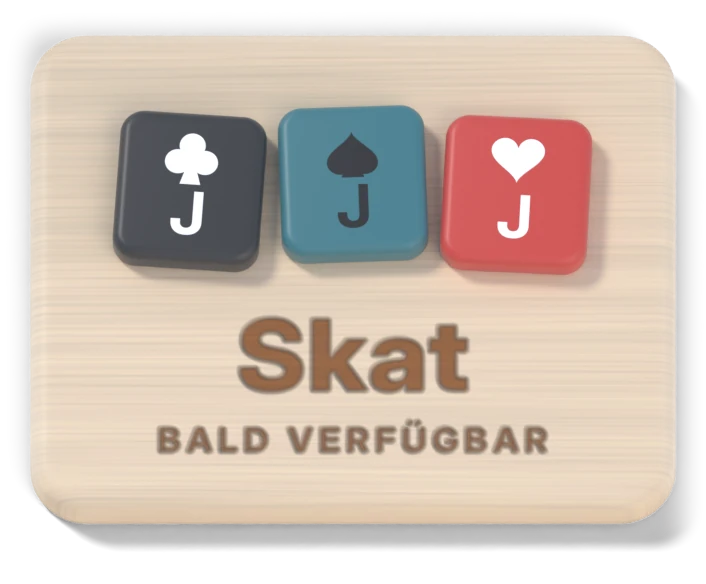
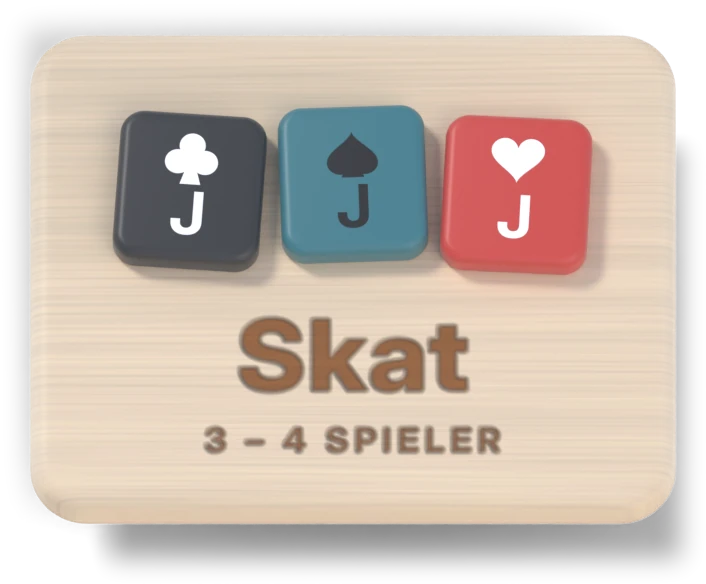
Skat spielbar: Tafel 3–4 Spieler, Rangliste/Profil mit Skat, Vorschau-Skripte, README

diff --git a/src/main.js b/src/main.js
@@ -453,7 +453,7 @@ async function openLeaderboard() {
   loadBoard();
   try {
     const { history } = await api.history();
-    $('hist-body').innerHTML = history.length ? `<table class="lb">${history.map((h) => `<tr><td>${new Date(h.created_at).toLocaleDateString('de-DE', { day: '2-digit', month: '2-digit' })}</td><td>${esc(GAME_INFO[h.game || '1001']?.name || h.game)}</td><td>${h.winner === 'human' ? 'Sieg' : 'Niederlage'}</td><td class="n">${h.human_total}:${h.computer_total}</td><td class="n">${h.deals} R.</td></tr>`).join('')}</table>` : '<p class="engr-s">Noch keine eigenen Partien.</p>';
+    $('hist-body').innerHTML = history.length ? `<table class="lb">${history.map((h) => `<tr><td>${new Date(h.created_at).toLocaleDateString('de-DE', { day: '2-digit', month: '2-digit' })}</td><td>${esc(GAME_INFO[h.game || '1001']?.name || h.game)}</td><td>${h.winner === 'human' ? 'Sieg' : 'Niederlage'}</td><td class="n">${h.human_total}:${h.computer_total}</td><td class="n">${h.deals} ${h.game === 'skat' ? 'Sp.' : 'R.'}</td></tr>`).join('')}</table>` : '<p class="engr-s">Noch keine eigenen Partien.</p>';
   } catch { $('hist-body').innerHTML = '<p class="engr-s">Noch keine eigenen Partien.</p>'; }
 }
 async function loadBoard() {

diff --git a/src/skat/game.js b/src/skat/game.js
@@ -173,7 +173,7 @@ export function createSkat(ctx) {
       const val = l ? (l.act === 'pass' ? 'weg' : l.act === 'yes' ? 'ja' : l.value) : '–';
       return `<div class="seat ${state} ${t && t.p === p ? 'turn' : ''}" data-p="${p}"><i class="peg p${p}"></i><span class="sn">${SHORT[nm(p)]}</span><em class="vh" title="${ROLE[r]}">${ROLE_S[r]}</em><span class="sv">${val}</span></div>`;
     }).join('');
-    const sayer = a.stage < 3 ? `${SHORT[nm(a.sayer)]} sagt` : '';
+    const sayer = a.stage < 3 ? (a.sayer === 0 ? 'Du sagst' : `${SHORT[nm(a.sayer)]} sagt`) : '';
     $('skb-high').innerHTML = a.bid ? `<span class="k">Gereizt</span><b>${a.bid}</b><span class="who">${a.stage === 1 ? `${SHORT[nm(a.sayer)]} → ${SHORT[nm(a.listener)]}` : a.stage === 2 ? `${SHORT[nm(a.sayer)]} → ${SHORT[nm(a.listener)]}` : ''}</span>`
       : `<span class="k">Noch nichts gereizt</span><b>18</b><span class="who">${sayer || 'Vorhand'} zuerst</span>`;
     $('skb-log').innerHTML = a.log.map((e) => `<span class="chip-tile p${e.p} ${e.act === 'pass' ? 'pass' : ''}" title="${nm(e.p)}">${e.act === 'pass' ? 'W' : e.act === 'yes' ? 'Ja' : e.value}</span>`).join('');

diff --git a/src/style.css b/src/style.css
@@ -374,3 +374,4 @@ body:has(#help:not(.hidden)) .shell-in { visibility: hidden; }
   .ska-opts .wbtn { font-size: 11px; min-height: 42px; }
   #sk-announce { padding: 12px 10px; }
 }
+@media (max-width: 560px) { .pl.sitout .rd::before { content: '' !important; } .pl.sitout .rd { font-size: 9px; } }

diff --git a/README.md b/README.md
@@ -41,16 +41,27 @@ blender -b -P blender/build_assets.py -- --render --closeup --view Standard
 
 
 ## Card Master (Hülle, Profil, Rangliste)
-- Startbildschirm: Logo, Spielername, Spielauswahl (1001 spielbar; Rommé/Skat/Bridge „bald verfügbar“), danach bei 1001 die Spielerzahl.
+- Startbildschirm: Logo, Spielername, Spielauswahl (1001 und Skat spielbar; Rommé/Bridge „bald verfügbar“), danach die Spielerzahl.
 - Menüteile sind echte Cycles-Renderings mit Brett-Ahorn, Steinen und Licht der Szene: `blender/build_ui.py` (+ `ui_masks.py` für Gravuren, `ui_post.py` → WebP in `public/assets/ui/`). Tasten und Tafeln werden als 9-Slice (`border-image`) gedehnt.
   ```
   blender -b -P blender/build_ui.py -- --view Standard --sun 1.6 --area 160 --world 0.22 [--only game_] [--samples 64]
   ```
-- Supabase: Migration `0003_tu_card_master` – Spalte `tu_matches.game` (Standard `1001`) und Tabelle `tu_game_stats` (Zähler je Profil und Spiel). Die Edge Function `tu` nimmt nur Ergebnisse für Spiele an, die in `supabase/functions/tu/ranking.js` als wertbar markiert sind (derzeit nur 1001).
+- Supabase: Migration `0003_tu_card_master` – Spalte `tu_matches.game` (Standard `1001`) und Tabelle `tu_game_stats` (Zähler je Profil und Spiel). Die Edge Function `tu` nimmt nur Ergebnisse für Spiele an, die in `supabase/functions/tu/ranking.js` als wertbar markiert sind (1001 und Skat).
 - **Gesamtrangliste „Card Master“:** Summe der Siege über alle Spiele. Gleichstand: weniger Niederlagen, dann wer zuletzt gespielt hat, dann Name.
 - **Rangliste je Spiel:** Siege; Gleichstand: beste Punktzahl, weniger Niederlagen, zuletzt gespielt.
 - Testläufe (`?autostart`, `?autoplay`) speichern nichts.
 
+## Skat (Internationale Skatordnung)
+- 3 Spieler (2 Computer) oder 4 Spieler (3 Computer, der Geber setzt aus, das Geben wandert). Serie über **12 Spiele**, jedes Spiel frisch gemischt.
+- Geben 3 – Skat – 4 – 3, Reizen Mittelhand → Vorhand, dann Hinterhand → Sieger (18, 20, 22, 23, 24, 27 …, „ja“/„weg“). Skat aufnehmen und 2 drücken oder Hand. Farbspiele, Grand, Null (23/35/46/59), Spitzen, Hand, Schneider, Schwarz, Ansagen, Ouvert, Überreizen, Kontra/Re. Passen alle: Ramsch (Vereinbarung, Jungfrau ×2, Durchmarsch +120).
+- **Wertung:** Turnierpunkte nach ISkO-Liste. Gewonnen: +(Spielwert + 50). Verloren: −(2 × Spielwert + 50), jeder andere am Tisch +40 (zu dritt) bzw. +30 (zu viert). Kontra ×2, Re ×4 auf den Spielwert. Ramsch: Höchster verliert seine Augen (Jungfrau doppelt).
+- **Rangliste:** gewonnenes Spiel = Sieg des Alleinspielers; verlorenes = Niederlage des Alleinspielers und Sieg jedes Gegenspielers; Aussetzender und Ramsch ohne Sieg/Niederlage. „Punkte“ = aufsummierte Turnierpunkte.
+- Regeln und Wertung stehen nur einmal in `supabase/functions/tu/skat.js` – genutzt von Spiel, Tests und Edge Function. Der Server spielt jede eingereichte Serie mit diesem Modul nach (Blätter, Reizen, Drücken, Ansage, Kontra, jeder Stein) und rechnet die Punkte selbst nach.
+- Computer: `src/game/skatai.js` – kennt nur das eigene Blatt, den Skat (falls aufgenommen), gespielte Steine und Ansagen.
+- Migration `0004_tu_skat` erweitert die Wertebereiche der Endstände (Skat kann negativ sein).
+- Tests: `npm test` (Bubenfolge, Trumpf, Null-Reihenfolge, Bedienen, Reizfolge, Spielwerte, Wertung inkl. verloren/Kontra, Ramsch, ganze Serie zu dritt/zu viert, Server-Prüfung).
+- Vorschau-Läufe: `node tools/skatcheck.mjs <url> <prefix> 3|4`, `node tools/skatshots.mjs <url> <prefix> 3|4 [w h]`.
+
 ## Später (Backlog)
 - Shop: Siege bringen Münzen, damit lassen sich besondere Decks (Stein-Designs) kaufen.
-- Rommé, Skat, Bridge als eigene Spiele.
+- Rommé, Bridge als eigene Spiele.
